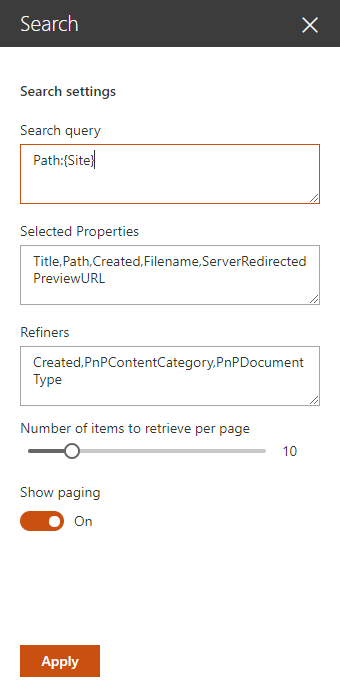
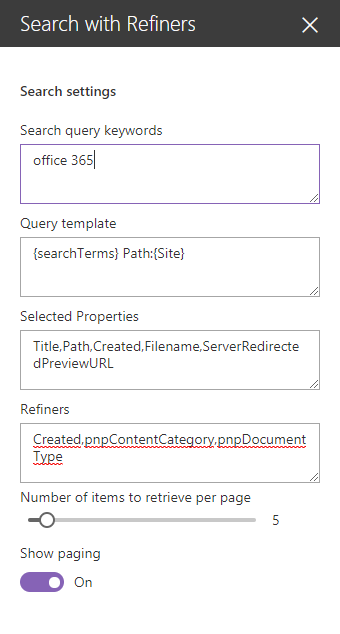
[react-search-refiners] Updated the screenshots + npm packages

diff --git a/samples/react-search-refiners/src/webparts/dataProviders/SearchDataProvider.ts b/samples/react-search-refiners/src/webparts/dataProviders/SearchDataProvider.ts
@@ -155,7 +155,7 @@ class SearchDataProvider implements ISearchDataProvider {
                     refiner.Entries.map((item) => {
                         values.push({
                             RefinementCount: item.RefinementCount,
-                            RefinementName:  this._formatDate(item.RefinementName), //This value will appear in the selected filter bar
+                            RefinementName:  this._formatDate(item.RefinementName), // This value will appear in the selected filter bar
                             RefinementToken: item.RefinementToken,
                             RefinementValue: this._formatDate(item.RefinementValue), // This value will appear in the filter panel
                         });

diff --git a/samples/react-search-refiners/src/webparts/search/components/FilterPanel/FilterPanel.tsx b/samples/react-search-refiners/src/webparts/search/components/FilterPanel/FilterPanel.tsx
@@ -94,8 +94,7 @@ export default class FilterPanel extends React.Component<IFilterPanelProps, IFil
                     <Label className="filter">
                         <i className="ms-Icon ms-Icon--ClearFilter" onClick={ ()=> { this._removeFilter(filter); }}></i> 
                         { filter.Value.RefinementName  }
-                    </Label>  
-      
+                    </Label>      
             );
         });
 

diff --git a/samples/react-search-refiners/README.md b/samples/react-search-refiners/README.md
@@ -10,7 +10,7 @@ This sample shows you how to build user friendly SharePoint search experiences u
 An associated [blog post](http://thecollaborationcorner.com/2017/10/16/build-dynamic-sharepoint-search-experiences-with-refiners-and-paging-with-spfx-office-ui-fabric-and-pnp-js-library/) is available to give you more details about this sample implementation.
 
 ## Used SharePoint Framework Version 
-![drop](https://img.shields.io/badge/drop-1.3.0-green.svg)
+![drop](https://img.shields.io/badge/drop-1.3.4-green.svg)
 
 ## Applies to
 
@@ -27,7 +27,7 @@ react-search-refiners | Franck Cornu (MVP Office Development at aequos) - Twitte
 
 Version|Date|Comments
 -------|----|--------
-1.0 | October 17, 2017 | Initial release
+1.0 | January 03, 2018 | Initial release
 
 ## Disclaimer
 **THIS CODE IS PROVIDED *AS IS* WITHOUT WARRANTY OF ANY KIND, EITHER EXPRESS OR IMPLIED, INCLUDING ANY IMPLIED WARRANTIES OF FITNESS FOR A PARTICULAR PURPOSE, MERCHANTABILITY, OR NON-INFRINGEMENT.**
@@ -51,7 +51,8 @@ The following settings are available in the Web Part property pane:
 
 Setting | Description 
 -------|----
-Search query | The search query in KQL format. You can use search query variables (See this [post](http://www.techmikael.com/2015/07/sharepoint-rest-do-support-query.html) to know which ones are allowed).
+Search query keywords | The search query in KQL format. You can use search query variables (See this [post](http://www.techmikael.com/2015/07/sharepoint-rest-do-support-query.html) to know which ones are allowed).
+Query template | The search query template in KQL format. You can use search variables here (like Path:{Site}).
 Selected properties | The search managed properties to retrieve. You can use these proeprties then in the code like this (`item.property_name`). (See the *Tile.tsx* file) .
 Refiners | The search managed properties to use as refiners. Make sure these are refinable. With SharePoint Online, you have to reuse the default ones to do so (RefinableStringXX etc.). The order is the same as they will appear in the refnement panel.
 Number of items to retrieve per page | Quite explicit. The paging behavior is done directly by the search API (See the *SearchDataProvider.ts* file), not by the code on post-render.
